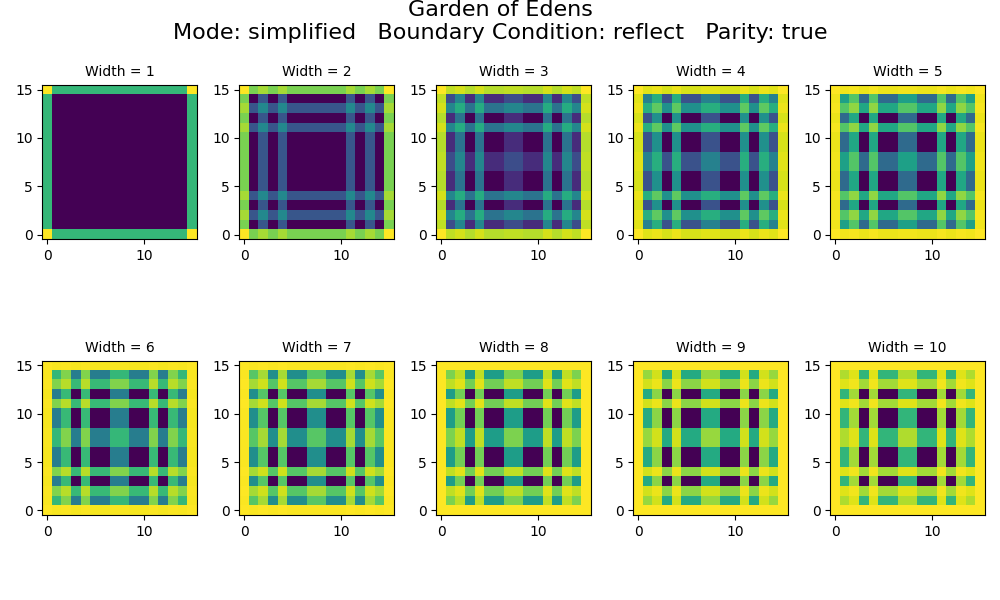
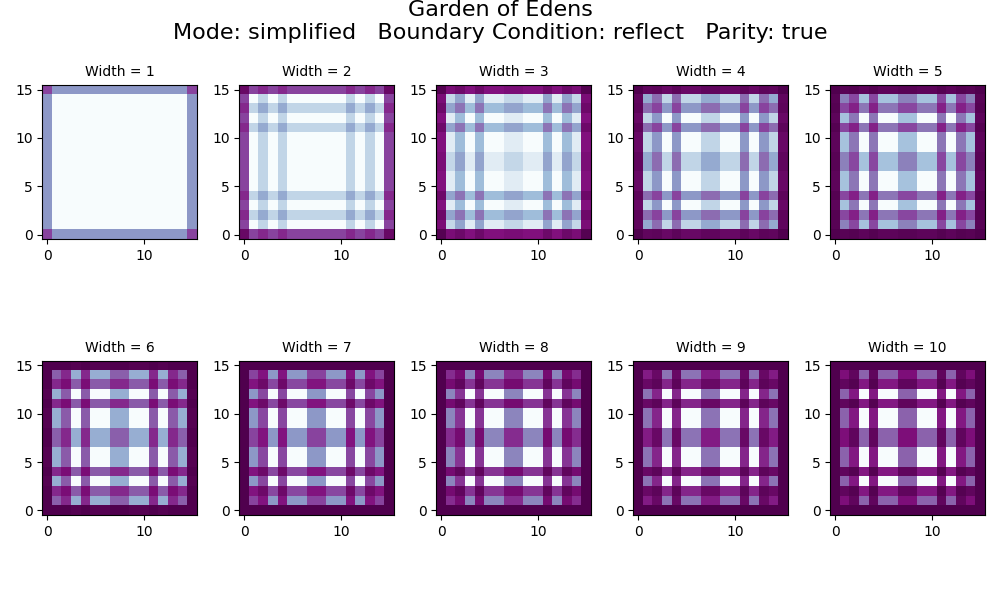
data visualization fixes

diff --git a/data-visualization/GardenOfEden.py b/data-visualization/GardenOfEden.py
@@ -3,7 +3,7 @@ import matplotlib.pyplot as plt
 ROWS = 2
 COLS = 5
 MODE = "simplified"
-BC = "reflect_false"
+BC = "none"
 
 fig = plt.figure(figsize=(10,6))
     
@@ -18,13 +18,13 @@ for i in range(1, ROWS * COLS + 1):
     for line in lines:
         if len(line) > 1:
             pts = line.split(',')
-            collections.append(list(map(lambda x: float(x), pts)))
+            collections.append(list(map(lambda x: float(x)//(0.01*pow(4,i)), pts)))
 
     axs.append(fig.add_subplot(ROWS, COLS, i))
-    axs[i-1].imshow(collections, origin='lower', cmap=plt.colormaps['viridis'])
+    axs[i-1].imshow(collections, origin='lower', cmap=plt.colormaps['BuPu'], vmin=0, vmax=100)
     axs[i-1].set_title('Width = ' + str(i), fontsize=10)
 
 fig.tight_layout()
-# plt.suptitle("Garden of Edens\nMode: " + MODE + "   Boundary Condition: " + BC + "\n",fontsize=16,y=1)
-plt.suptitle("Garden of Edens\nMode: " + MODE + "   Boundary Condition: reflect   Parity: false\n",fontsize=16,y=1)
+plt.suptitle("Garden of Edens\nMode: " + MODE + "   Boundary Condition: " + BC + "\n",fontsize=16,y=1)
+# plt.suptitle("Garden of Edens\nMode: " + MODE + "   Boundary Condition: reflect   Parity: true\n",fontsize=16,y=1)
 plt.show()

diff --git a/src/Row.java b/src/Row.java
@@ -205,7 +205,6 @@ public class Row {
 
     public HashSet<Row> findTwins() {
         Row s = this.getSuccessor();
-        System.out.println(s.toString());
         return s.findPredecessors();
     }
 
